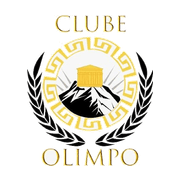
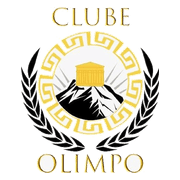
Teste: icone do app sem fundo
Icones 192, 512 e apple-touch passam a ser transparentes.

As entradas maskable sairam do manifest de proposito: com elas presentes
o Android usa o icone de fundo branco e o teste nao mostraria nada. Os
ARQUIVOS continuam na pasta, entao reverter e so devolver as duas
entradas ao manifest.

Cache do service worker para v3, senao o aparelho seguiria com o icone
antigo guardado.

Aviso registrado: no Android, app sem icone maskable costuma ganhar um
fundo branco do proprio lancador. Se for isso que aparecer, o resultado
e do sistema, nao do arquivo.

diff --git a/public/sw.js b/public/sw.js
@@ -10,7 +10,7 @@
  * diferente deste, e é isso que descongela quem já tinha a versão antiga
  * guardada no aparelho.
  */
-const CACHE = 'olimpo-v2';
+const CACHE = 'olimpo-v3';
 
 // Casca mínima: o que precisa estar guardado para a tela não vir vazia.
 const ESSENCIAL = ['/', '/manifest.json', '/logo.png', '/icon-192x192.png'];
